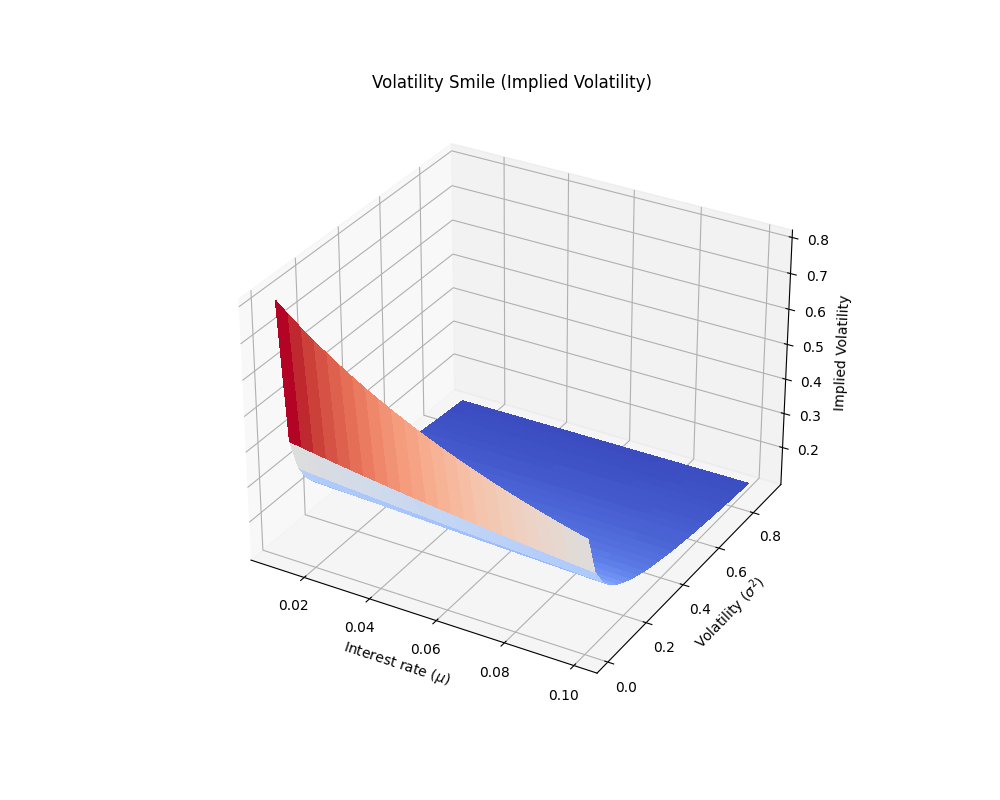
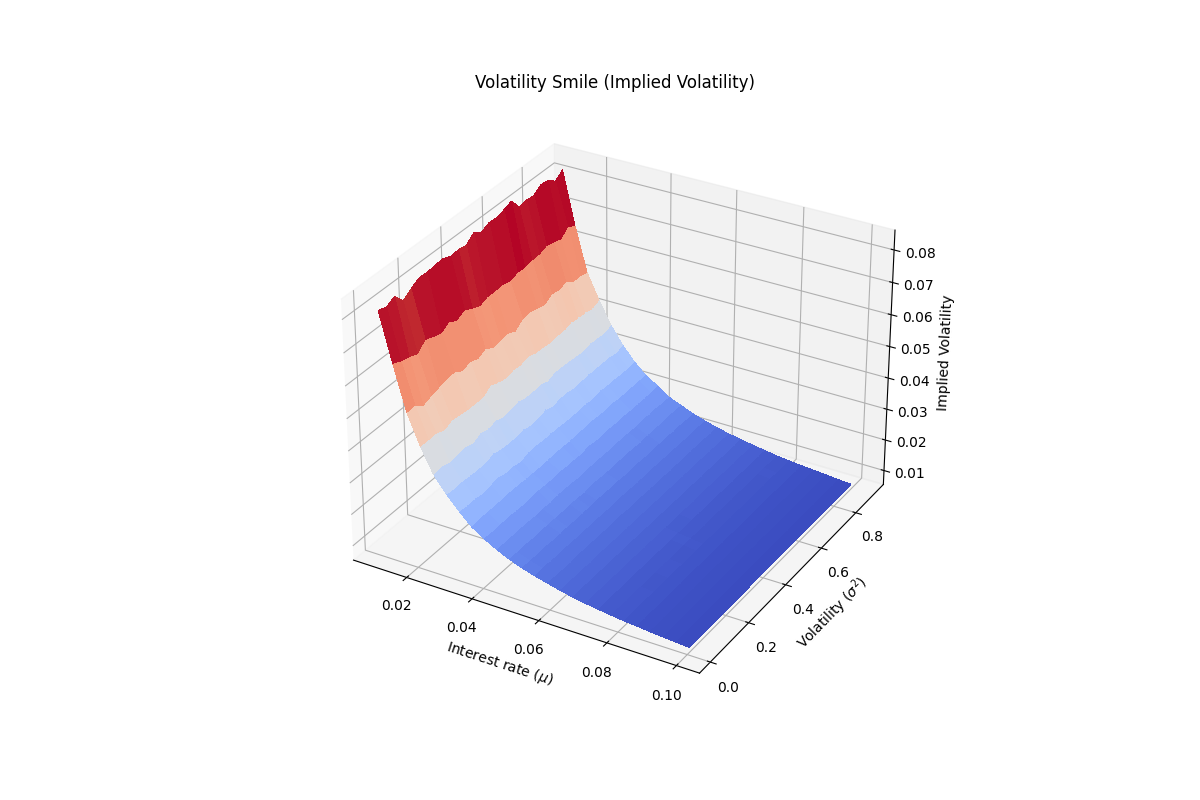
++

Changed region(s): [[0.248, 0.1875, 0.868, 0.875], [0.372, 0.0938, 0.651, 0.125]]

diff --git a/heston-improve.py b/heston-improve.py
@@ -29,7 +29,8 @@ def monte_carlo_simulation_heston(s0, K, mu, T, simulations, N, rho, kappa, thet
 
     return np.mean(discounted_payoff)
 
-def calculate_vega(s0, K, mu, T, simulations, N, rho, kappa, theta, sigma, v0, h=0.01):
+
+def calculate_vega(s0, K, mu, T, simulations, N, rho, kappa, theta, sigma, v0, h=0.02):
     option_price_base = monte_carlo_simulation_heston(s0, K, mu, T, simulations, N, rho, kappa, theta, sigma, v0)
     option_price_at_sigma_plus_h = monte_carlo_simulation_heston(s0, K, mu, T, simulations, N, rho, kappa, theta,
                                                                  sigma + h, v0)
@@ -54,17 +55,18 @@ def calculate_delta(s0, K, mu, T, simulations, N, rho, kappa, theta, sigma, v0, 
     delta = (option_price_at_s_plus_h - option_price_base) / h
     return delta
 
-def calculate_greeks(s0, K, mu, T, simulations, N, rho, kappa, theta, sigma, v0, h=0.1):
+
+def calculate_greeks(s0, K, mu, T, simulations, N, rho, kappa, theta, sigma, v0, h=1):
     option_price_base = monte_carlo_simulation_heston(s0, K, mu, T, simulations, N, rho, kappa, theta, sigma, v0)
     option_price_at_s_plus_h = monte_carlo_simulation_heston(s0 + h, K, mu, T, simulations, N, rho, kappa, theta, sigma,
                                                              v0)
-    delta = (option_price_at_s_plus_h - option_price_base) / h
     option_price_at_s_minus_h = monte_carlo_simulation_heston(s0 - h, K, mu, T, simulations, N, rho, kappa, theta,
                                                               sigma, v0)
-    gamma = (option_price_at_s_plus_h - 2 * option_price_base + option_price_at_s_minus_h) / h ** 2
     option_price_at_sigma_plus_h = monte_carlo_simulation_heston(s0, K, mu, T, simulations, N, rho, kappa, theta,
                                                                  sigma + h, v0)
+    gamma = (option_price_at_s_plus_h - 2 * option_price_base + option_price_at_s_minus_h) / h ** 2
     vega = (option_price_at_sigma_plus_h - option_price_base) / h
+    delta = (option_price_at_s_plus_h - option_price_base) / h
     return delta, gamma, vega
 
 def calculate_option_combinations(monte_carlo_simulation_func, mu_v, rho_v, kappa_v, theta_v, sigma_v,
@@ -143,10 +145,10 @@ def plot_3d_graph(x_values, y_values, z_values, xlabel, ylabel, zlabel, title, s
     plt.show()
 
 
-######
+###############################
 # Option price get data
-######
-# Define ranges for parameters
+###############################
+# # Define ranges for parameters
 # mu_v = np.linspace(0.01, 0.1, 10)
 # rho_v = np.linspace(-0.9, 0.9, 10)
 # kappa_v = np.linspace(0.1, 2.0, 10)
@@ -158,19 +160,19 @@ def plot_3d_graph(x_values, y_values, z_values, xlabel, ylabel, zlabel, title, s
 # v0_values = np.linspace(0.04, 0.06, 10)  # volatilities
 #
 # # Set other parameters and option details
-# simulations = 1000
+# simulations = 100
 # N = 100
 #
 # # Calculate option prices for each combination of parameters
 # tab = calculate_option_combinations(monte_carlo_simulation_heston, mu_v, rho_v, kappa_v, theta_v, sigma_v,
 #                                     s0_values, K_values, T_values, v0_values)
-
-#save into a csv
+#
+# # save into a csv
 # save_to_csv(tab, mu_v, rho_v, kappa_v, theta_v, sigma_v,
 #             s0_values, K_values, T_values, v0_values)
-######
+###############################
 # Option price
-######
+###############################
 #
 # # Parameters
 # s0 = 100  # Prix initial de l'actif sous-jacent
@@ -218,37 +220,39 @@ def plot_3d_graph(x_values, y_values, z_values, xlabel, ylabel, zlabel, title, s
 #               f"Option Prices (Heston) rho = {rho} kappa = {kappa} theta_r = {theta}",
 #               "Graph/option_price_heston_vol.png")
 
-###########
+###############################
 # Greeks
-###########
+###############################
 # Define the functions calculate_vega, calculate_gamma, calculate_delta, and plot_3d_graph
 
 # Parameters
-s0_values = np.linspace(80, 120, 40)  # Range of S values
-T_values = np.linspace(0.1, 1.0, 10)  # Range of T values
+s0_values = np.linspace(10, 70, 40)  # Range of S values
+T_values = np.linspace(0.1, 1.0, 12)  # Range of T values
 v0 = 0.05
 N = 100
-simulations = 1000
+simulations = 5000
 kappa = 2  # Speed of mean reversion
 theta = 0.02  # Long-term mean of volatility
-sigma = 0.9  # Volatility of volatility
+sigma = 0.9
 v0 = 0.04  # Initial volatility
-mu = 0.01
+mu = 0.02
 rho = 0.03
-K = 100
+K = 40
 
 # Calculate Greeks for each combination of S and T values
 vega_values = np.zeros((len(s0_values), len(T_values)))
 gamma_values = np.zeros((len(s0_values), len(T_values)))
 delta_values = np.zeros((len(s0_values), len(T_values)))
-for i, s0 in tqdm(enumerate(s0_values), total=len(s0_values), desc="S0 Progress"):
+for i, s0 in tqdm(enumerate(s0_values), total=len(s0_values), desc="Greeks calcul"):
     for j, T in enumerate(T_values):
-        vega_values[i, j] = calculate_vega(s0, K, mu, T, simulations, N, rho, kappa, theta,
-                                           sigma, v0)
-        gamma_values[i, j] = calculate_gamma(s0, K, mu, T, simulations, N, rho, kappa, theta,
-                                             sigma, v0)
-        delta_values[i, j] = calculate_delta(s0, K, mu, T, simulations, N, rho, kappa, theta,
-                                             sigma, v0)
+        # vega_values[i, j] = calculate_vega(s0, K, mu, T, simulations, N, rho, kappa, theta,
+        #                                    sigma, v0)
+        # gamma_values[i, j] = calculate_gamma(s0, K, mu, T, simulations, N, rho, kappa, theta,
+        #                                      sigma, v0)
+        # delta_values[i, j] = calculate_delta(s0, K, mu, T, simulations, N, rho, kappa, theta,
+        #                                      sigma, v0)
+        delta_values[i, j], gamma_values[i, j], vega_values[i, j] = calculate_greeks(s0, K, mu, T, simulations, N, rho,
+                                                                                     kappa, theta, sigma, v0)
 
 T, S = np.meshgrid(T_values, s0_values)
 
@@ -271,13 +275,12 @@ plot_2d_graph(s0_values, gamma_values[:, T_index], 'Asset Price ($S$)', 'Gamma',
 plot_2d_graph(s0_values, delta_values[:, T_index], 'Asset Price ($S$)', 'Delta',
               f"Delta at T = {T_values[T_index]}", "Graph/plot_2d_delta.png")
 
-
-######
+###############################
 # Implied volatility smile plot
-######
+###############################
 # parameter
-mu_v = np.linspace(0.01, 0.1, 100)
-sigma_v = np.linspace(0.01, 0.9, 100)
+mu_v = np.linspace(0.01, 0.1, 25)
+sigma_v = np.linspace(0.01, 0.9, 25)
 s0 = 100
 K = 100
 T = 1
@@ -291,10 +294,11 @@ v0 = 0.04
 
 Z = np.zeros((len(mu_v), len(sigma_v)))
 
-for i, sigma2 in enumerate(tqdm(sigma_v, desc="Sigma Progress")):
+for i, sigma2 in enumerate(tqdm(sigma_v, desc="Implied Volatility Progress")):
     for j, mu in enumerate(mu_v):
         Z[i, j] = monte_carlo_simulation_heston(s0, K, mu, T, simulations, N, rho, kappa, theta, sigma, v0)
 
 implied_volatility = np.sqrt(2 * np.pi) / (K * np.exp(-mu_v) * Z)
-plot_3d_graph(mu_v, sigma_v, implied_volatility, 'Interest rate ($\mu$)', 'Volatility ($\sigma^2$)',
+MU, SIGMA = np.meshgrid(mu_v, sigma_v)
+plot_3d_graph(MU, SIGMA, implied_volatility, 'Interest rate ($\mu$)', 'Volatility ($\sigma^2$)',
               'Implied Volatility', "Volatility Smile (Implied Volatility)", "Graph/heston_implied_vol.png")
